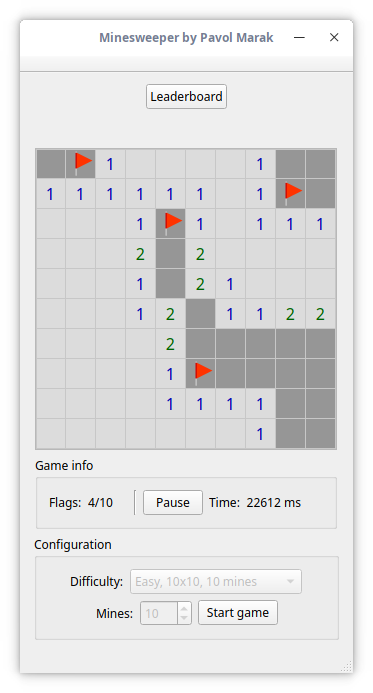
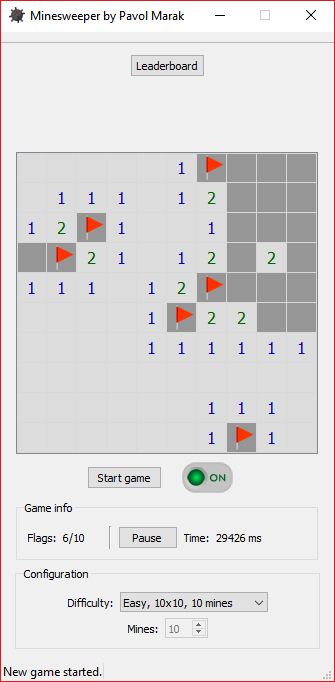
Screenshots updated.

diff --git a/game_gui.cpp b/game_gui.cpp
@@ -12,9 +12,9 @@ GameGUI::GameGUI(QWidget *parent) :
     this->resetGui();
 
     // set game switch
-    StatusBarSwitch* switch_on_off = new StatusBarSwitch();
-    switch_on_off->setObjectName("statusbar_switch");
-    ui->statusBar->addWidget(switch_on_off);
+    this->switch_on_off = new MySwitch();
+    this->switch_on_off->setObjectName("switch-off");
+    ui->horizontalLayout_9->insertWidget(2,this->switch_on_off);
 
     // set status bar message widget
     this->statusbar_message = new QLabel();
@@ -108,6 +108,8 @@ void GameGUI::resetGui()
 // function to start the game
 void GameGUI::on_start_game_button_clicked()
 {
+    this->switch_on_off->setPixmap(QDir::currentPath() + QDir::separator() + "switch-on.png");
+
     // apply the currently selected difficulty
     this->game.setCurrent_difficulty(ui->gridsize_selector->currentIndex());
 
@@ -181,6 +183,7 @@ void GameGUI::leftClickSlot(QTableWidgetItem* item)
     LeftClickResult result = this->game.userLeftClick(item->row(),item->column());
     // if user left-clicked on a mine
     if(result.is_mine == true){
+        this->switch_on_off->setPixmap(QDir::currentPath() + QDir::separator() + "switch-off.png");
         ui->pause_time_button->setEnabled(false);
 
         this->game.timer.stop();
@@ -243,6 +246,7 @@ void GameGUI::leftClickSlot(QTableWidgetItem* item)
         }
     }
     if(this->game.accomplished(ui->gridsize_selector->currentIndex())==true){
+        this->switch_on_off->setPixmap(QDir::currentPath() + QDir::separator() + "switch-off.png");
         ui->show_leaderboard_button->setEnabled(false);
         ui->pause_time_button->setEnabled(false);
         ui->start_game_button->setEnabled(false);
@@ -279,6 +283,7 @@ void GameGUI::rightClickSlot(QTableWidgetItem* item)
         ui->flag_counter->setText(QString::number(this->game.getPlayer().getFlag_counter()) + "/" + QString::number(this->game.difficulties[this->game.getCurrent_difficulty()].number_of_mines));
     }
     if(this->game.accomplished(ui->gridsize_selector->currentIndex())==true){
+        this->switch_on_off->setPixmap(QDir::currentPath() + QDir::separator() + "switch-off.png");
         ui->show_leaderboard_button->setEnabled(false);
         ui->pause_time_button->setEnabled(false);
         ui->start_game_button->setEnabled(false);

diff --git a/myswitch.cpp b/myswitch.cpp
@@ -1,0 +1,24 @@
+#include "myswitch.h"
+
+MySwitch::MySwitch()
+{
+    this->setPixmap(QDir::currentPath() + QDir::separator() + "switch-off.png");
+    this->setScaledContents(true);
+    this->status = false;
+    qDebug() << "heree";
+}
+
+void MySwitch::mousePressEvent(QMouseEvent *event)
+{
+//    if(event->button() == Qt::LeftButton){
+//        if(this->status==true){
+//            this->status = false;
+//            this->setPixmap(QDir::currentPath() + QDir::separator() + "switch-off.png");
+//        }
+//        else{
+//            this->status = true;
+//            this->setPixmap(QDir::currentPath() + QDir::separator() + "switch-on.png");
+//        }
+//    }
+
+}

diff --git a/game_gui.h b/game_gui.h
@@ -17,7 +17,7 @@
 #include <QHeaderView>
 
 #include "game.h"
-#include "statusbarswitch.h"
+#include "myswitch.h"
 
 namespace Ui {
 class GameGUI;
@@ -48,6 +48,7 @@ private:
     Ui::GameGUI *ui;
     Game game;
     QLabel* statusbar_message;
+    MySwitch* switch_on_off;
 
 };
 

diff --git a/myswitch.h b/myswitch.h
@@ -8,11 +8,11 @@
 #include <QDebug>
 #include <QMouseEvent>
 
-class StatusBarSwitch : public QLabel
+class MySwitch : public QLabel
 {
 
 public:
-    StatusBarSwitch();
+    MySwitch();
 
 private slots:
     void mousePressEvent(QMouseEvent* event);
